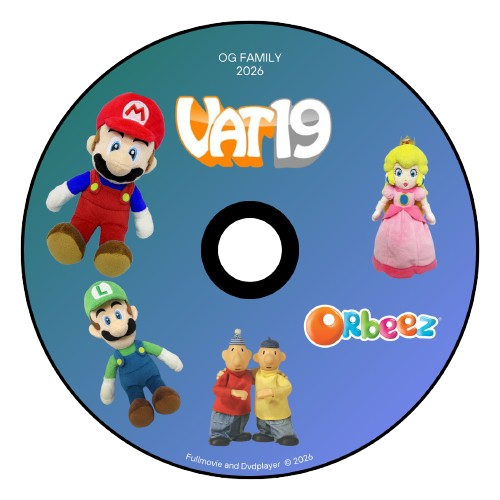
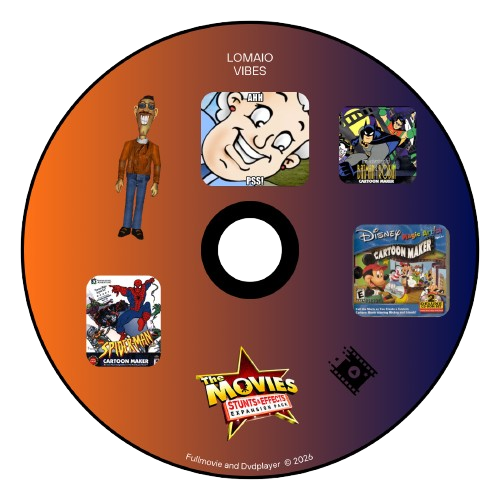
Refactor code structure for improved readability and maintainability and Add Dvd channel open : Lomaio vibes

diff --git a/your favorite files/ISO/ISO.html b/your favorite files/ISO/ISO.html
@@ -121,64 +121,29 @@ td {
       class="exit-btn">Exit</a>
     <div class="container">
       <h1>ISO</h1>
-      <table cellspacing="2" cellpadding="2" border="1">
+      <table width="730" height="190" cellspacing="2" cellpadding="2"
+        border="1">
         <tbody>
           <tr>
             <td valign="top" align="center">
               <div class="spin"> <img src="Disc1.png" alt="DVD"
                   width="150" height="150"> </div>
             </td>
-            <td valign="top"> <strong>Name :</strong> OG Family 2026<br>
+            <td valign="top"> <strong>Name :</strong> Lomaio vibes<br>
               <br>
               Download Link:<br>
               <br>
-              <div style="text-align:center;"> <a
-                  href="https://mixdrop.top/f/q1v7ndxgfx8wkj3"> <img
-                    src="MixDrop.png" alt="MixDrop" width="150"
-                    height="44" border="0"> </a> <a
-                  href="https://pixeldrain.com/u/VqkYZRiU"> <img
-                    src="pixeldrain.png" alt="Pixeldrain" width="168"
-                    height="43" border="0"> </a> </div>
-            </td>
-          </tr>
-          <tr>
-            <td valign="top" align="center">
-              <div class="spin"> <img src="Disc2.png" alt=""
-                  width="150" height="150"> </div>
-            </td>
-            <td valign="top"> <strong>Name :</strong> MixPlayer Volume
-              1<br>
-              <br>
-              Download Link:<br>
-              <br>
-              <div style="text-align:center;"> <a
-                  href="https://mixdrop.top/f/369og8nqbmz6deq"> <img
-                    src="MixDrop.png" alt="" width="150" height="44"
-                    border="0"> </a> <a
-                  href="https://pixeldrain.com/u/RduUATPS"> <img
-                    src="pixeldrain.png" alt="" width="176" height="43"
-                    border="0"> </a> </div>
-            </td>
-          </tr>
-          <tr>
-            <td valign="top" align="center">
-              <div class="spin"> <img src="Disc3.png" alt=""
-                  width="150" height="150"> </div>
-            </td>
-            <td valign="top"> <strong>Name :</strong> Dvdtvplayer vol 1<br>
-              <br>
-              Download Link:<br>
-              <br>
-              <div style="text-align:center;"> <a
-                  href="https://mixdrop.top/f/gj0d9qj6bw4m9qw"> </a><a
-                  href="https://mixdrop.top/f/gj0d9qj6bw4m9qw"><img
-                    src="MixDrop.png" alt="" width="150" height="44"
-                    border="0"></a> <a
-                  href="https://pixeldrain.com/u/qKBf8YvC"> </a><a
-                  href="https://pixeldrain.com/u/qKBf8YvC"><img
-                    src="pixeldrain.png" alt="" width="176" height="43"
-                    border="0"></a>&nbsp;<a
-                  href="https://gofile.io/d/si6QxQ"> </a> </div>
+              <div style="text-align:center;"><img
[1 lines of base64/hex data omitted]
+                  alt=""><a
+href="https://www.mediafire.com/file/sskrm7p4awh6go7/Lomaio+vibes.iso/file"><img
+                    src="MediaFire_logo.png" alt="" width="223"
+                    height="60" border="0"></a>&nbsp;&nbsp;<a
+href="https://mega.nz/file/lPMTSQ5Z#V6uZSo-w4kc5suTTN_iJNKXOVEZACFL_kATi4b6k1uA"><img
+                    src="mega_logo.png" alt="" width="175" height="57"
+                    border="0"></a><a
+                  href="https://mixdrop.top/f/q1v7ndxgfx8wkj3"> </a><a
+                  href="https://pixeldrain.com/u/VqkYZRiU"> </a> </div>
             </td>
           </tr>
         </tbody>
